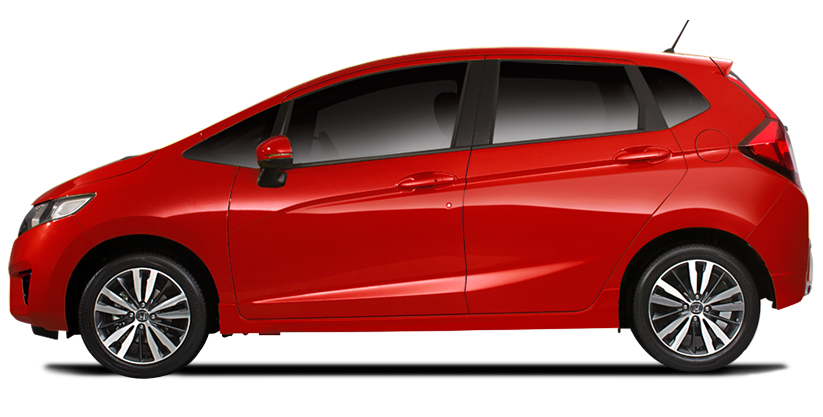
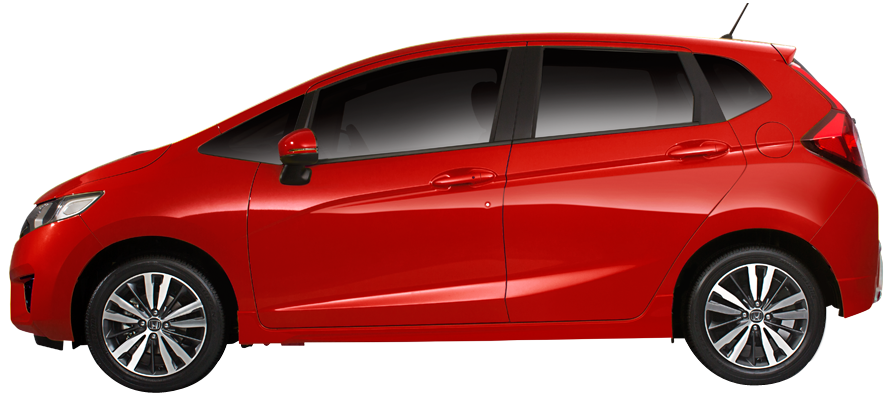
feature: add civic in carousel

diff --git a/index.html b/index.html
@@ -204,6 +204,46 @@
                     <div class="carousel-img pull-right"><img src="images/carousel/jazz.png" alt="Honda Jazz" class="img-responsive">
                     </div>
                 </div>
+                <div class="item" id="civic">
+                    <div class="carousel-info pull-left">
+                        <div class="car-details">
+                            <h2>HONDA CIVIC</h2>
+                            <p>The spirit of racing has been running through Honda’s pipelines and powertrain since the era of its great grandfathers. With MUGEN, The All-New Civic can relive and bask in its ancestors’ glory of being kings of the road.
+                            </p>
+                            <div class="car-details-table">
+                                <table>
+                                    <tr>
+                                        <td>1.8 S MT
+                                        </td>
+                                        <td><img src="images/carousel/bars/2.0/1.png" height="28" /></td>
+                                    </tr>
+                                    <tr>
+                                        <td>1.8 S AT
+                                        </td>
+                                        <td><img src="images/carousel/bars/2.0/2.png" height="28" /></td>
+                                    </tr>
+                                    <tr>
+                                        <td>1.8 E AT Modulo</td>
+                                        <td><img src="images/carousel/bars/2.0/3.png" height="28" /></td>
+                                    </tr>
+                                    <tr>
+                                        <td>2.0 EL AT
+                                        </td>
+                                        <td><img src="images/carousel/bars/2.0/4.png" height="28" /></td>
+                                    </tr>
+                                    <tr>
+                                        <td>2.0 EL AT Mugen
+                                        </td>
+                                        <td><img src="images/carousel/bars/2.0/5.png" height="28" /></td>
+                                    </tr>
+                                </table>
+                            </div>
+                            <p>* Visit your nearest Honda dealer for complete specifications.</p>
+                        </div>
+                    </div>
+                    <div class="carousel-img pull-right"><img src="images/carousel/civic.png" alt="Honda Civic" class="img-responsive">
+                    </div>
+                </div>
             </div>
             <a class="left carousel-control" href="#carousel-main" role="button" data-slide="prev">
                 <img src="images/carousel/arrow-left.png" aria-hidden="true">
